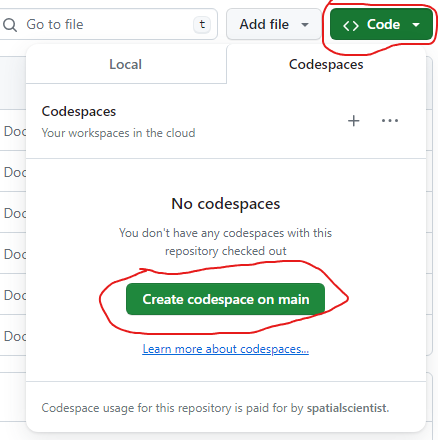
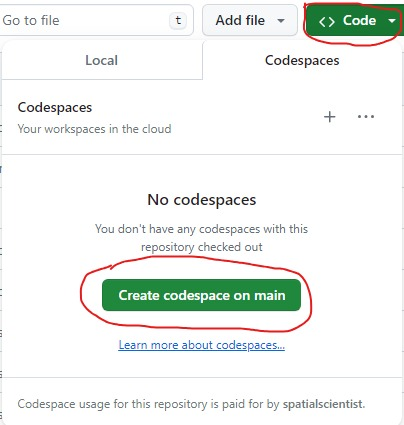
Updated README and better screenshots

diff --git a/README.md b/README.md
@@ -1,6 +1,6 @@
-# Omeka-S404 in Docker containers. S404 stands for [Omeka S](https://github.com/omeka/omeka-s)  version 4.0.4
+# Omeka-S404 in Docker containers. S404 stands for Omeka S version 4.0.4
 
-There are options to either use Github Codespaces (the simplest) or launch/build the containers using local Visual Studio Code (VSCode) setup or via command line only.
+This repository contains Docker containers, and additional files, to help you run an [Omeka S](https://github.com/omeka/omeka-s) version [4.0.4](https://github.com/omeka/omeka-s/releases/tag/v4.0.4) instance. There are options to either use Github Codespaces (the simplest) or launch/build the containers using local Visual Studio Code (VSCode) setup or via command line only.
 
 ## Launch the containers using Github Codespaces
 
@@ -9,29 +9,38 @@ There are options to either use Github Codespaces (the simplest) or launch/build
     ![Fork github repository](image.png)
 
 - Go to '<> Code' section on your forked repository -> Codespaces -> select 'Create codespace on main'. This will launch a codespace with Visual Studio Code (VSCode) interface if successfully
-    ![Create codespace on main](image-1.png)
-- Install 'Docker' extension. Be alert here as you may get an alert asking you "Do you want to install the recommended 'Docker' extension from Microsoft for docker-composer.yml?" Click the install button to install. For the first time, the installation may take a while so you need patience.
 
-    ![install the recommended 'Docker' extension](image-2.png)
+    ![Create codespace on main](image-1.png)
+
+- Install 'Docker' extension. 
+    - Open the "docker-compose.yml" file. Be alert here as you may get an alert asking you "Do you want to install the recommended 'Docker' extension from Microsoft for docker-composer.yml?" Click the install button to install. For the first time, the installation may take a while so you need patience.
+
+        ![install the recommended 'Docker' extension](image-2-1.PNG)
+
+    - Go to "Extensions" section to manyally install 'Docker' extension if you do not see the alert.
+
+        ![install the recommended 'Docker' extension](image-2-2.PNG)
+
 
 - Right-click "docker-compose.yml" file and select 'Compose up'. For the first time, the building may take a while so you need patience.
 
-    ![select 'Compose up'](image-3.png)
+    ![select 'Compose up'](image-3.PNG)
 
 - Hurray! If everything works as expected, you just click 'Open in Browser' button to go to Omeka S 4.0.4 for further details to set it up. 
 
-    ![Open in Browser](image-4.png)
+    ![Open in Browser](image-4.PNG)
 
 - Fill in the form to setup your Omeka S 4.0.4 instance. 
 
-    ![Omeka S 4.0.4 instance](image-5.png)
+    ![Omeka S 4.0.4 instance](image-5.PNG)
 
 -  Note that as part of this setup, there are:
-    - One default theme installed
     - Two modules installed made up of the [Common](https://gitlab.com/Daniel-KM/Omeka-S-module-Common) module and the [EasyAdmin](https://github.com/Daniel-KM/Omeka-S-module-EasyAdmin) module. The "Common" module needs to be installed first before installing the "EasyAdmin" module.
     - Go to the "Module" section to install the two modules.
     - Importance of EasyAdmin module: This module will allow you to install additional Omeka S [themes](https://omeka.org/s/themes/) and or [modules](https://omeka.org/s/modules/).
+    - One [default](https://omeka.org/s/themes/default/) theme installed
 
+    ![Install modules](image-6.PNG)
 
 ## Launch the containers using VSCode
 
@@ -85,7 +94,7 @@ At that point, you can start configuring your Omeka-S web portal.
 
 Remarks:
 
-- images will be downloaded automatically from the Docker hub: 67911151/omeka-s404:latest, mariadb:latest, phpmyadmin:latest. You may also choose to build the docker image for Omeka S 404 using the name "omeka-s404:latest" instead of using the image on Docker hub. 
+- images will be downloaded automatically from the Docker hub: 67911151/omekas404docker:latest, mariadb:latest, phpmyadmin:latest. You may also choose to build the docker image for Omeka S 404 using the name "omekas404docker:latest" instead of using the image on Docker hub. 
 - for the omeka-s container, /var/www/html/files (media files uploaded by the users) and /var/www/html/config/database.ini (configuration file with the credentials for the db) are put in a named volume and will survive the removal of the container. The mariadb container also puts the data (omeka-s db in /var/lib/mysql) in a named volume. Volumes are hosted in the host filesystem (/var/lib/docker/volumes).
 
 To stop the containers:
@@ -131,8 +140,8 @@ Edit the Dockerfile file.
 Once done, build the new Docker image:
 
 ```
-$ sudo docker image build -t foo/omeka-s404:1.0.1-bar .
-$ sudo docker image tag foo/omeka-s:1.0.1-bar foo/omeka-s404:latest
+$ sudo docker image build -t foo/omekas404docker:1.0.1-bar .
+$ sudo docker image tag foo/omeka-s:1.0.1-bar foo/omekas404docker:latest
 ```
 
 Upload the image to your Docker hub repository:
@@ -141,6 +150,6 @@ Login in your account (e.g. foo) on hub.docker.com, and create a repository "ome
 
 ```
 $ sudo docker login --username=foo
-$ sudo docker image push foo/omeka-s404:1.0.1-bar
-$ sudo docker image push foo/omeka-s404:latest
+$ sudo docker image push foo/omekas404docker:1.0.1-bar
+$ sudo docker image push foo/omekas404docker:latest
 ```
